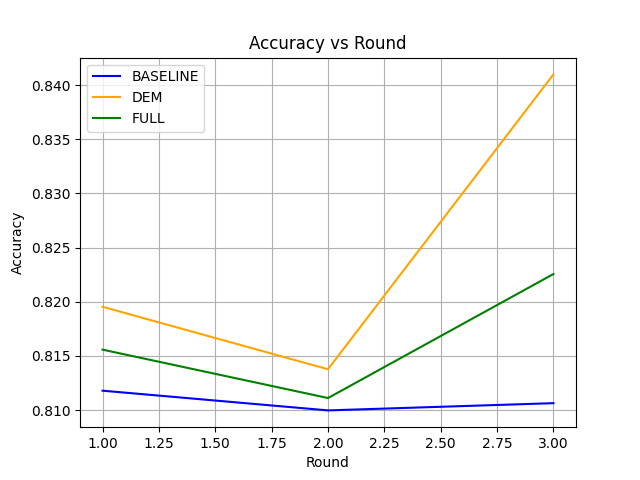
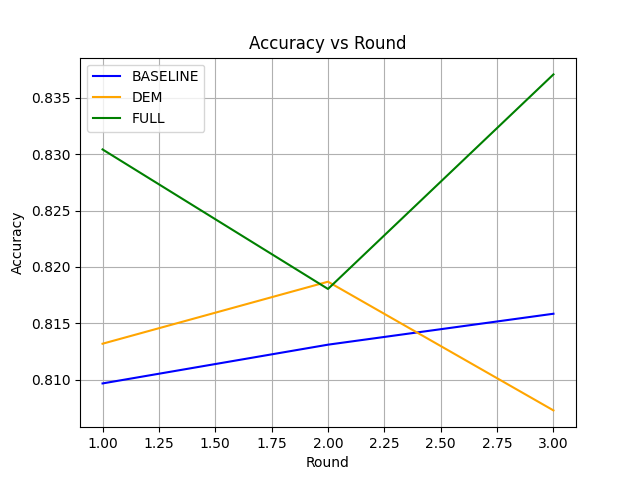
Added logging, refactor the code in server.py, changed the weight of LGB and LLS to 0.1 in losses.py, update the log, update the requirements.txt, reset the README.md

diff --git a/server.py b/server.py
@@ -1,74 +1,61 @@
 import flwr as fl
 import os
+import json
+from utils import config
 
-# Make tensorflow log less verbose
 os.environ["TF_CPP_MIN_LOG_LEVEL"] = "2"
 
 
 def weighted_average(metrics):
-    total_examples = 0
-    # Khởi tạo federated_metrics chỉ với các keys có giá trị là số từ metrics đầu tiên
-    # và đảm bảo chúng ta không cố gắng tổng hợp các giá trị không phải số
-    federated_metrics = {}
-    if metrics and metrics[0][1]:
-        for k_init, v_init in metrics[0][1].items():
-            if isinstance(v_init, (int, float)):  # Chỉ khởi tạo nếu là số
-                federated_metrics[k_init] = 0.0  # Dùng float để nhất quán
+    accs = [
+        num_examples * m["accuracy"] for num_examples, m in metrics if "accuracy" in m
+    ]
+    losses = [num_examples * m["loss"] for num_examples, m in metrics if "loss" in m]
+    total = sum(num_examples for num_examples, _ in metrics)
 
-    if not federated_metrics:  # Nếu không có metric số nào
-        return {}
+    if total == 0:
+        return {"accuracy": 0.0, "loss": 0.0}
 
-    for num_examples, m in metrics:
-        for k, v in m.items():
-            if k in federated_metrics and isinstance(
-                v, (int, float)
-            ):  # Chỉ xử lý các key đã khởi tạo và là số
-                federated_metrics[k] += num_examples * v
-        total_examples += num_examples
-
-    if total_examples == 0:
-        return {k: 0.0 for k in federated_metrics}  # Tránh chia cho 0
-
-    return {k: v / total_examples for k, v in federated_metrics.items()}
+    return {
+        "accuracy": sum(accs) / total if accs else 0.0,
+        "loss": sum(losses) / total if losses else 0.0,
+    }
 
 
 def fit_config(server_round: int):
-    """Return training configuration dict for each round."""
-    config = {
+    return {
         "server_round": server_round,
-        "local_epochs": 1,  # Số epoch huấn luyện local mỗi round
+        "local_epochs": 1,
         "batch_size": 64,
-        "num_rounds": 9,  # Tổng số rounds FL
-        # Thêm các config khác nếu cần
     }
-    return config
 
 
 def get_server_strategy():
-    def weighted_average(metrics):
-        accs = [num_examples * m["accuracy"] for num_examples, m in metrics]
-        losses = [num_examples * m["loss"] for num_examples, m in metrics]
-        total = sum(num_examples for num_examples, _ in metrics)
-        return {
-            "accuracy": sum(accs) / total,
-            "loss": sum(losses) / total,
-        }
-
     return fl.server.strategy.FedAvg(
         evaluate_metrics_aggregation_fn=weighted_average,
         fit_metrics_aggregation_fn=weighted_average,
         min_fit_clients=3,
         min_evaluate_clients=3,
         min_available_clients=3,
-        on_fit_config_fn=None,
+        on_fit_config_fn=None, # I let this None cause i haven't find the most suitable config yet
     )
 
 
+def save_log(history):
+    os.makedirs("logs", exist_ok=True)
+    filepath = os.path.join("logs", f"results_{config.MODE}.json")
+    with open(filepath, "w") as f:
+        json.dump(history.metrics_distributed, f, indent=4)
+    print(f"[server.py] Log saved to {filepath}")
+
+
 if __name__ == "__main__":
+    print(f"[server.py] Starting server in mode: {config.MODE.upper()}")
     history = fl.server.start_server(
         server_address="0.0.0.0:8080",
         strategy=get_server_strategy(),
         config=fl.server.ServerConfig(num_rounds=3),
     )
     final_round, acc = history.metrics_distributed["accuracy"][-1]
-    print(f"After {final_round} rounds of training the accuracy is {acc:.3%}")
+    print(f"[server.py] After {final_round} rounds, accuracy = {acc:.3%}")
+    save_log(history)

diff --git a/utils/losses.py b/utils/losses.py
@@ -1,8 +1,8 @@
 import tensorflow as tf
 
 # Hệ số trọng số loss
-GAMMA_LGB = 0.5
-GAMMA_LLS = 0.5
+GAMMA_LGB = 0.1
+GAMMA_LLS = 0.1
 
 
 @tf.function
